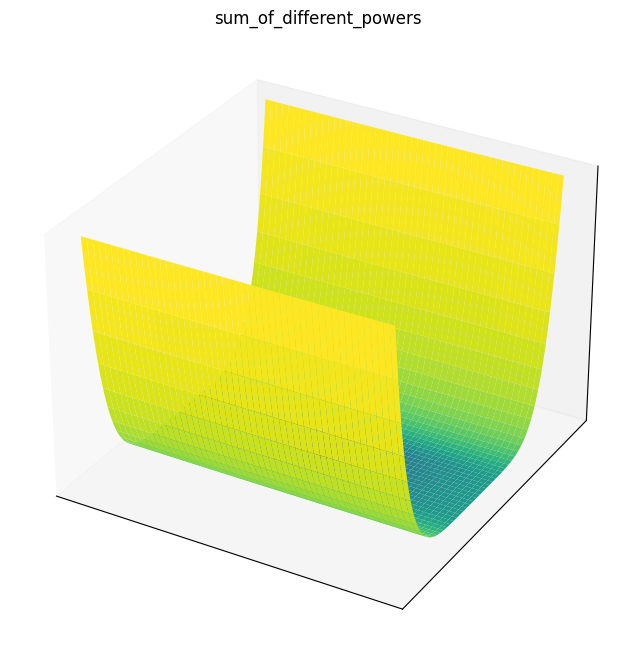
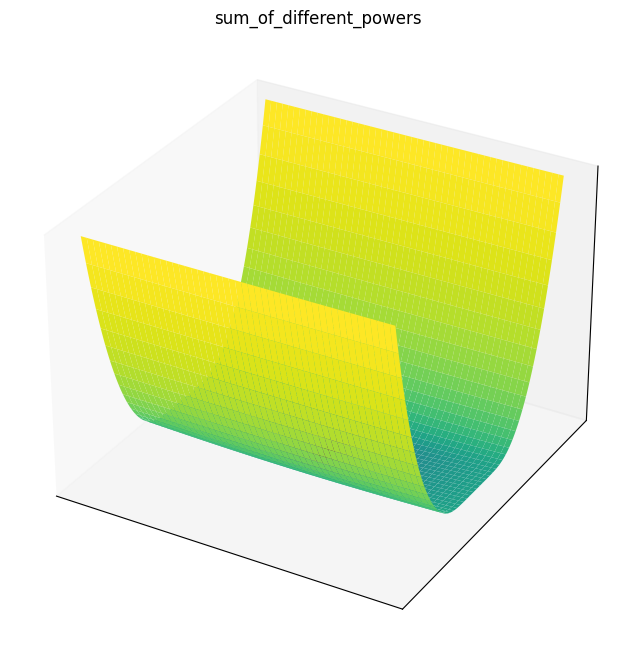
docs: regenerate landscape plots for the ADR 0005 corrections
Regenerates the 2D/3D landscape PNGs for the 13 functions whose
landscapes changed (F2-F4, F10-F12, F14-F18 values; Gallagher
conditioning permutation) plus both BBOB overview grids. Images of
unaffected functions are left untouched so the image diff mirrors the
semantic diff.

The 3D overview is now saved at dpi 150 (3600x4500 px, ample for the
README embed) — current matplotlib renders the 24 surface subplots far
less compressibly, and dpi 300 ballooned the tracked binary to 10 MB.

Changed region(s): [[0.1195, 0.152, 0.8962, 0.8207]]

diff --git a/scripts/update_plots.py b/scripts/update_plots.py
@@ -77,7 +77,9 @@ def update_plots() -> None:
         ax.set_title(name)
 
     plt.tight_layout()
-    plt.savefig("img/bbob_functions_overview_3d.png", dpi=300)
+    # dpi 150 keeps the tracked 3D overview binary reasonably small;
+    # 24x30 in -> 3600x4500 px, ample for the README embed
+    plt.savefig("img/bbob_functions_overview_3d.png", dpi=150)
     plt.close(fig)
 
 
